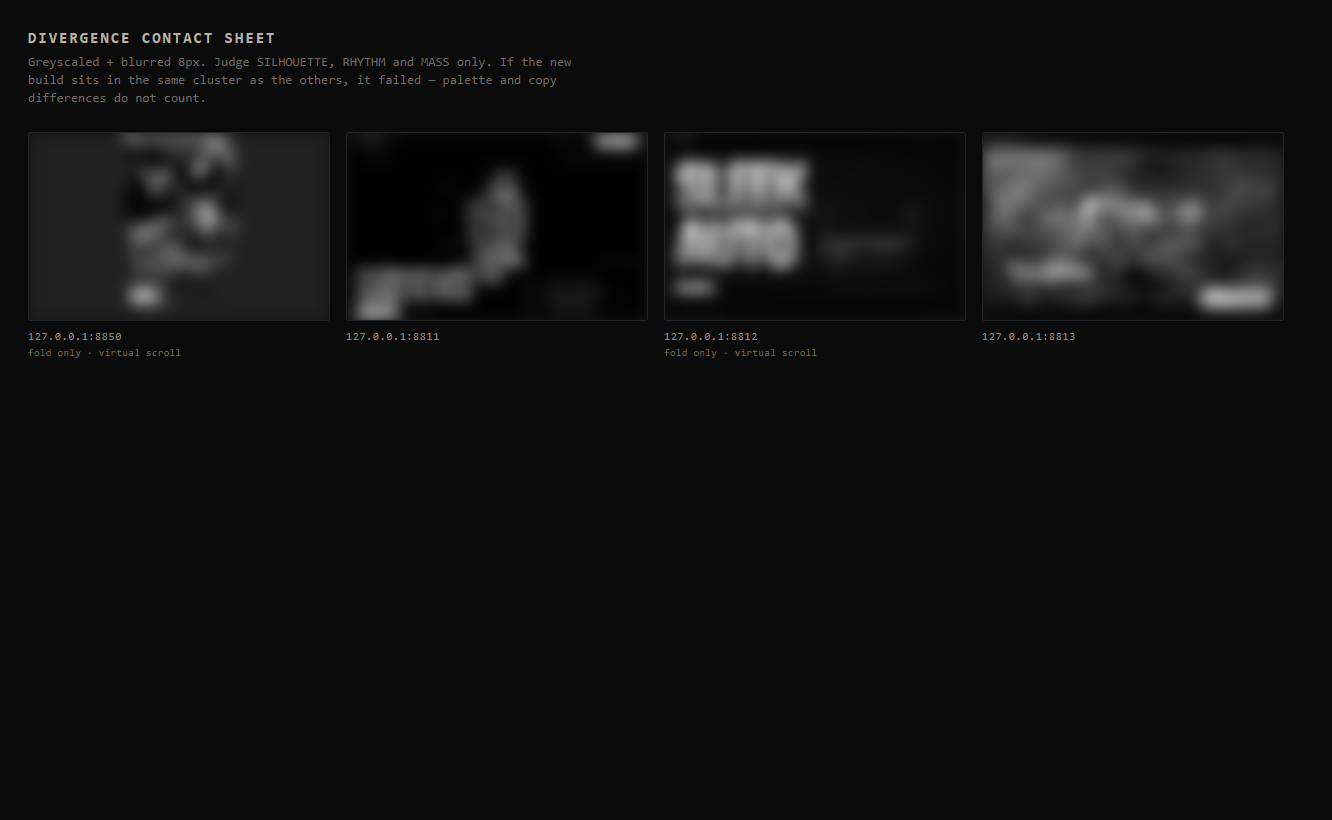
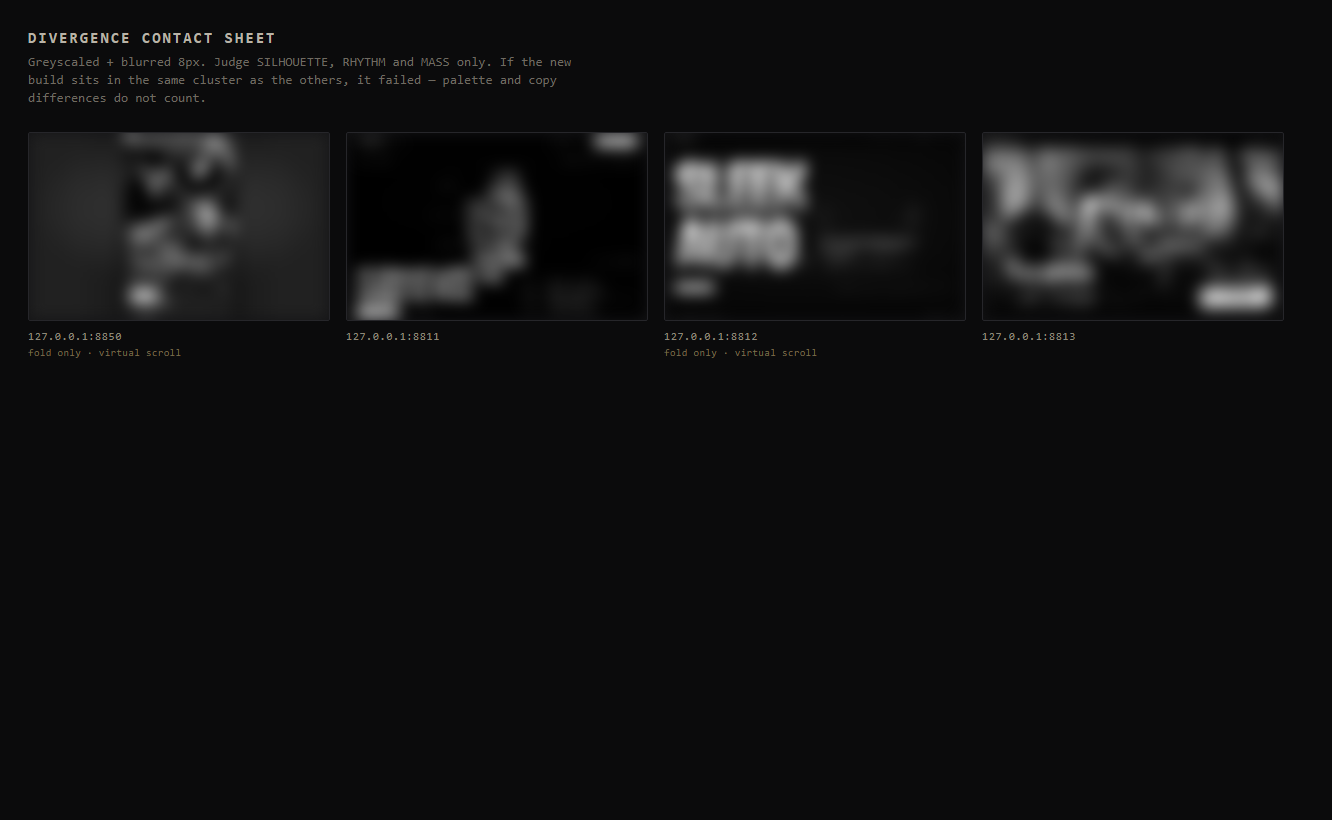
feat: v6 — revised against the award barber set (proof beat, faces on reviews, the feed, location, desktop)
- proof beat after the first crossing: 4.9 · 54 · 17 in glass cards, counted by the scroll (no pin), with a mono facts line (NW Houston · 77064 · EN/ES · appointments only)
- reviews: reviewer initial in a glass disc, 'Booksy' on every attribution
- 'From the feed': native snap strip of six real Instagram grid photos linking to @choppedbydiego (price-list and text posts excluded)
- desktop >= 900px: the phone column sits hairlined in a radial darkroom glow, Book pill centred under it
- capture states extended (proof, feed)

Claude-Session: https://claude.ai/code/session_017YWDE5JXoPXS3XVLwA3b7K

Changed region(s): [[0.7387, 0.1829, 0.985, 0.3659], [0.8003, 0.2134, 0.8311, 0.2439]]

diff --git a/index.html b/index.html
@@ -156,7 +156,7 @@ section{padding:var(--beat) 22px 0}
 .card{margin-top:24px;padding:4px 20px;will-change:transform}
 .card + .card{margin-top:16px}
 .quotes{font-family:var(--disp);font-style:italic;font-weight:400;font-variation-settings:"opsz" 48;font-size:25px;line-height:1.24;text-wrap:balance}
-.q{display:block;padding:20px 0;transition:filter .35s ease,opacity .35s ease;filter:blur(1.2px);opacity:.62}
+.q{display:block;padding:20px 0;transition:filter .35s ease,opacity .35s ease;filter:blur(.8px);opacity:.8}
 .q+.q{border-top:1px solid rgba(239,230,216,.12)}
 .q.on{filter:blur(0);opacity:1}
 .q .who{display:block;margin-top:8px;font-family:var(--mono);font-style:normal;font-size:11px;letter-spacing:.12em;text-transform:uppercase;color:var(--smoke)}
@@ -192,7 +192,9 @@ section{padding:var(--beat) 22px 0}
 .rw .more p{padding:0 20px 16px;font-weight:300;font-size:15px;line-height:1.5;color:var(--cream);opacity:.85;max-width:32ch}
 .rw .more a{display:inline-flex;align-items:center;gap:8px;margin:0 20px 18px;min-height:44px;font-weight:500;font-size:15px;letter-spacing:-.01em;color:var(--signal);text-decoration:none}
 .rw .more a:after{content:'';width:7px;height:7px;border-top:1.5px solid var(--signal);border-right:1.5px solid var(--signal);transform:rotate(45deg);margin-left:2px}
-.hours{margin-top:30px;padding-top:18px;border-top:1px solid var(--hair);line-height:1.9}
+.place{margin-top:16px;display:grid;grid-template-columns:1fr 1fr;gap:18px;padding:20px}
+.place .k{display:block;margin-bottom:8px}
+.place p{font-weight:300;font-size:15px;line-height:1.5;color:var(--cream)}
 
 /* ============ 6 · book ============ */
 .book{position:relative;padding-bottom:40px}
@@ -204,6 +206,43 @@ section{padding:var(--beat) 22px 0}
 .book .note{margin-top:18px;line-height:1.9}
 footer{padding:26px 22px 34px;border-top:1px solid var(--hair);display:flex;justify-content:space-between;gap:14px;flex-wrap:wrap}
 
+/* ============ proof — the numbers, at display scale, counted by the scroll (CRISP's scale-as-proof, Blind Barber's scrub, no pin) ============ */
+.proof{padding-top:calc(var(--beat) * .3)}
+.proof{padding-bottom:calc(var(--beat) * .35)}
+.proof .row3{display:grid;grid-template-columns:1fr 1fr 1fr;margin-top:8px;padding:22px 6px 20px}
+.proof .stat{display:grid;grid-template-rows:auto auto;row-gap:14px;padding:0 14px;align-content:start}
+.proof .stat+.stat{box-shadow:inset 1px 0 0 rgba(239,230,216,.12)}
+.proof .stat .n{font-family:var(--disp);font-variation-settings:"opsz" 96;font-size:clamp(44px,13vw,58px);line-height:.9;letter-spacing:-.02em;font-variant-numeric:tabular-nums}
+.proof .stat .l{font-size:10px;line-height:1.55;color:#C9BBA8;min-height:2.9em}
+.proof .facts{margin-top:18px;line-height:2;display:flex;flex-wrap:wrap;column-gap:4px}
+.proof .facts span{white-space:nowrap}
+.proof .facts i{margin:0 6px}
+/* ============ the feed — a native snap strip of the actual Instagram grid (Una's IG, Rendezvous' lookbook; one thumb, no library) ============ */
+.feed{padding-top:calc(var(--beat) * .7)}
+.feed .head{display:flex;justify-content:space-between;align-items:flex-end;gap:12px}
+.feed .head a{display:inline-flex;align-items:center;gap:8px;height:36px;padding:0 14px;font-size:12px;font-weight:500;color:var(--cream);text-decoration:none;white-space:nowrap;margin-bottom:6px}
+.strip{display:flex;gap:10px;margin:22px -22px 0;padding:0 22px 8px;overflow-x:auto;scroll-snap-type:x mandatory;-webkit-overflow-scrolling:touch;scrollbar-width:none}
+.strip::-webkit-scrollbar{display:none}
+.strip a{flex:0 0 62%;aspect-ratio:4/5;scroll-snap-align:start;border-radius:var(--r-print);overflow:hidden;background:var(--carbon);position:relative;will-change:transform}
+.strip a img{width:100%;height:100%;object-fit:cover}
+.strip a:after{content:'';position:absolute;inset:0;border-radius:inherit;box-shadow:inset 0 0 0 1px rgba(239,230,216,.08)}
+.strip{-webkit-mask-image:linear-gradient(90deg,#000 86%,transparent);mask-image:linear-gradient(90deg,#000 86%,transparent)}
+.strip a .ig{position:absolute;left:12px;bottom:12px;width:32px;height:32px;display:grid;place-items:center;border-radius:50%}
+.strip a .ig svg{width:16px;height:16px;fill:none;stroke:var(--cream);stroke-width:1.6;stroke-linecap:round}
+/* reviews get a face: the initial in a glass disc */
+.q{display:grid;grid-template-columns:40px 1fr;column-gap:14px;align-items:start}
+.q .av,.read .av{width:44px;height:44px;border-radius:50%;display:grid;place-items:center;font-family:var(--sans);font-size:15px;font-weight:600;color:#EDE3D4;background:rgba(214,178,116,.14);border:1px solid rgba(214,178,116,.45);margin-top:2px}
+.q{grid-template-columns:44px 1fr}
+.read{display:grid;grid-template-columns:44px 1fr;column-gap:14px}
+.read .who{grid-column:2}
+.q .who{grid-column:2}
+/* desktop is deliberate: the phone composition sits in a darkroom — the hero, blurred and dimmed, behind a hairlined column */
+@media (min-width:900px){
+  body{background:var(--canvas)}
+  #scroll{background:radial-gradient(70% 60% at 50% 40%,rgba(58,46,36,.35),rgba(16,11,8,0) 70%)}
+  #root{box-shadow:0 0 0 1px rgba(239,230,216,.08),0 40px 120px rgba(0,0,0,.6);background:var(--canvas)}
+  .fab{right:calc(50% - 260px + 16px)}
+}
 @media (prefers-reduced-motion:reduce){
   #pre{display:none} .q{filter:none;opacity:1} .read span{color:var(--cream)} .cross{display:none} .sh{display:none} .mastwrap{transition:none} .fab{transition:none}
 }
@@ -241,6 +280,16 @@ footer{padding:26px 22px 34px;border-top:1px solid var(--hair);display:flex;just
 </section>
 
 <div class="cross" data-tool="shear" data-dir="ltr" aria-hidden="true"></div>
+
+<!-- 1b · proof — the numbers a reel viewer wants before the story -->
+<section class="proof" id="proof">
+  <div class="row3 g-card">
+    <div class="stat"><span class="n" data-count="4.9" data-dec="1">0.0</span><span class="l mono" data-en="Booksy<br>rating" data-es="Calificación<br>Booksy">Booksy<br>rating</span></div>
+    <div class="stat"><span class="n" data-count="54">0</span><span class="l mono" data-en="Booksy<br>reviews" data-es="Reseñas<br>Booksy">Booksy<br>reviews</span></div>
+    <div class="stat"><span class="n" data-count="17">0</span><span class="l mono" data-en="Years old<br>licensed" data-es="Años<br>con licencia">Years old<br>licensed</span></div>
+  </div>
+  <p class="facts mono"><span data-en="Northwest Houston · 77064" data-es="Noroeste de Houston · 77064">Northwest Houston · 77064</span><i>·</i><span data-en="EN / ES" data-es="ES / EN">EN / ES</span><i>·</i><span data-en="Appointments only" data-es="Solo con cita">Appointments only</span></p>
+</section>
 
 <!-- 2 · the barber -->
 <section class="bio" id="bio">
@@ -285,11 +334,24 @@ footer{padding:26px 22px 34px;border-top:1px solid var(--hair);display:flex;just
   <div class="score"><span class="n d">4.9</span><a class="src g-pill" href="https://choppedbydiego33.booksy.com" target="_blank" rel="noopener"><span data-en="54 reviews" data-es="54 reseñas">54 reviews</span><i>·</i><span>Booksy</span></a></div>
   <h2 class="d rv" data-en="What people <em>say.</em>" data-es="Lo que <em>dicen.</em>">What people <em>say.</em></h2>
   <div class="card g-card" id="quotes"><div class="quotes">
-    <span class="q">“The LeBron of cutting hair.”<span class="who"><i>—</i> Jaspur</span></span>
-    <span class="q">“Best cuts in the Nawfwest.”<span class="who"><i>—</i> Andrew</span></span>
-    <span class="q">“Bro, made me look younger.”<span class="who"><i>—</i> Cesar</span></span>
+    <span class="q"><span class="av g-pill">J</span><span>“The LeBron of cutting hair.”</span><span class="who"><i>—</i> Jaspur <i>·</i> Booksy</span></span>
+    <span class="q"><span class="av g-pill">A</span><span>“Best cuts in the Nawfwest.”</span><span class="who"><i>—</i> Andrew <i>·</i> Booksy</span></span>
+    <span class="q"><span class="av g-pill">C</span><span>“Bro, made me look younger.”</span><span class="who"><i>—</i> Cesar <i>·</i> Booksy</span></span>
   </div></div>
-  <div class="card g-card"><p class="read" id="read">I booked my appointment for 6:00pm and got a 10 guard, mid fade. Diego did a really good job and he takes his time.<span class="who mono"><i>—</i> German</span></p></div>
+  <div class="card g-card"><p class="read"><span class="av">G</span><span id="read">I booked my appointment for 6:00pm and got a 10 guard, mid fade. Diego did a really good job and he takes his time.</span><span class="who mono"><i>—</i> German <i>·</i> Booksy</span></p></div>
+</section>
+
+<!-- 4b · the feed -->
+<section class="feed" id="feed">
+  <div class="head"><h2 class="d rv" data-en="From <em>the feed.</em>" data-es="Del <em>feed.</em>">From <em>the feed.</em></h2><a class="g-pill" href="https://www.instagram.com/choppedbydiego/" target="_blank" rel="noopener">@choppedbydiego</a></div>
+  <div class="strip" id="strip">
+    <a href="https://www.instagram.com/choppedbydiego/" target="_blank" rel="noopener"><img src="assets/ig-1.jpg" width="480" height="600" alt="From Diego's Instagram" loading="lazy" decoding="async"><span class="ig g-pill"><svg viewBox="0 0 24 24"><rect x="3" y="3" width="18" height="18" rx="5"/><circle cx="12" cy="12" r="4"/><circle cx="17.3" cy="6.7" r=".8" fill="#EFE6D8" stroke="none"/></svg></span></a>
+    <a href="https://www.instagram.com/choppedbydiego/" target="_blank" rel="noopener"><img src="assets/ig-2.jpg" width="480" height="600" alt="From Diego's Instagram" loading="lazy" decoding="async"><span class="ig g-pill"><svg viewBox="0 0 24 24"><rect x="3" y="3" width="18" height="18" rx="5"/><circle cx="12" cy="12" r="4"/><circle cx="17.3" cy="6.7" r=".8" fill="#EFE6D8" stroke="none"/></svg></span></a>
+    <a href="https://www.instagram.com/choppedbydiego/" target="_blank" rel="noopener"><img src="assets/ig-3.jpg" width="480" height="600" alt="From Diego's Instagram" loading="lazy" decoding="async"><span class="ig g-pill"><svg viewBox="0 0 24 24"><rect x="3" y="3" width="18" height="18" rx="5"/><circle cx="12" cy="12" r="4"/><circle cx="17.3" cy="6.7" r=".8" fill="#EFE6D8" stroke="none"/></svg></span></a>
+    <a href="https://www.instagram.com/choppedbydiego/" target="_blank" rel="noopener"><img src="assets/ig-4.jpg" width="480" height="600" alt="From Diego's Instagram" loading="lazy" decoding="async"><span class="ig g-pill"><svg viewBox="0 0 24 24"><rect x="3" y="3" width="18" height="18" rx="5"/><circle cx="12" cy="12" r="4"/><circle cx="17.3" cy="6.7" r=".8" fill="#EFE6D8" stroke="none"/></svg></span></a>
+    <a href="https://www.instagram.com/choppedbydiego/" target="_blank" rel="noopener"><img src="assets/ig-5.jpg" width="480" height="600" alt="From Diego's Instagram" loading="lazy" decoding="async"><span class="ig g-pill"><svg viewBox="0 0 24 24"><rect x="3" y="3" width="18" height="18" rx="5"/><circle cx="12" cy="12" r="4"/><circle cx="17.3" cy="6.7" r=".8" fill="#EFE6D8" stroke="none"/></svg></span></a>
+    <a href="https://www.instagram.com/choppedbydiego/" target="_blank" rel="noopener"><img src="assets/ig-6.jpg" width="480" height="600" alt="From Diego's Instagram" loading="lazy" decoding="async"><span class="ig g-pill"><svg viewBox="0 0 24 24"><rect x="3" y="3" width="18" height="18" rx="5"/><circle cx="12" cy="12" r="4"/><circle cx="17.3" cy="6.7" r=".8" fill="#EFE6D8" stroke="none"/></svg></span></a>
+  </div>
 </section>
 
 <!-- 5 · the rate card -->
@@ -304,7 +366,10 @@ footer{padding:26px 22px 34px;border-top:1px solid var(--hair);display:flex;just
   <div class="rw"><button type="button" aria-expanded="false"><span class="svc"><span data-en="Kids, 8 &amp; under" data-es="Niños, 8 o menos">Kids, 8 &amp; under</span><small>45 min</small></span><span class="p"><span class="dd"><b>$25</b></span></span><span class="pl"></span></button><div class="more"><div><p data-en="Same care, smaller chair." data-es="El mismo cuidado, silla más chica.">Same care, smaller chair.</p><a href="https://choppedbydiego33.booksy.com" target="_blank" rel="noopener" data-en="Book this on Booksy" data-es="Reservar en Booksy">Book this on Booksy</a></div></div></div>
   <div class="rw"><button type="button" aria-expanded="false"><span class="svc"><span data-en="House call" data-es="A domicilio">House call</span><small>2 hrs · NW Houston</small></span><span class="p"><span class="dd"><b>$60</b></span></span><span class="pl"></span></button><div class="more"><div><p data-en="Diego comes to you, Northwest Houston." data-es="Diego va a ti, noroeste de Houston.">Diego comes to you, Northwest Houston.</p><a href="https://choppedbydiego33.booksy.com" target="_blank" rel="noopener" data-en="Book this on Booksy" data-es="Reservar en Booksy">Book this on Booksy</a></div></div></div>
   </div>
-  <p class="hours mono"><span data-en="Mon–Fri 4–9 pm · Sat 10–6" data-es="Lun–Vie 4–9 pm · Sáb 10–6">Mon–Fri 4–9 pm · Sat 10–6</span><br><span data-en="Sun closed" data-es="Dom cerrado">Sun closed</span></p>
+  <div class="place g-card">
+    <div><span class="k mono" data-en="Where" data-es="Dónde">Where</span><p data-en="Northwest Houston, 77064. Appointments only — the address comes with your booking." data-es="Noroeste de Houston, 77064. Solo con cita — la dirección llega con tu reserva.">Northwest Houston, 77064. Appointments only — the address comes with your booking.</p></div>
+    <div><span class="k mono" data-en="When" data-es="Cuándo">When</span><p><span data-en="Mon–Fri 4–9 pm" data-es="Lun–Vie 4–9 pm">Mon–Fri 4–9 pm</span><br><span data-en="Sat 10–6 · Sun closed" data-es="Sáb 10–6 · Dom cerrado">Sat 10–6 · Sun closed</span></p></div>
+  </div>
 </section>
 
 <!-- 6 · book -->
@@ -420,7 +485,7 @@ footer{padding:26px 22px 34px;border-top:1px solid var(--hair);display:flex;just
        headline / card crosses the bottom 132px — decided from live rects on every scroll tick, never from counters */
     const fab = document.getElementById('fab'), hero = document.querySelector('.hero')
     const avoidBeats = [document.querySelector('.rate'), document.querySelector('.book')]
-    const avoidEdges = Array.from(document.querySelectorAll('h2.d, .book .tagline, .card'))
+    const avoidEdges = Array.from(document.querySelectorAll('h2.d, .book .tagline, .card, .proof .row3, .body, .place'))
     const fabSync = () => {
       const H = scroller.clientHeight, zone = H - 132
       const past = hero.getBoundingClientRect().bottom < H * .7
@@ -440,6 +505,12 @@ footer{padding:26px 22px 34px;border-top:1px solid var(--hair);display:flex;just
         .fromTo(x.rect, { attr: { x: x.rtl ? 400 : 0, width: 0 } }, { attr: { x: 0, width: 400 }, ease: 'none' }, 0)
     })
 
+    /* ---- proof: the numbers count with the scroll (scrub, no pin) — 0 to the real figure as the card climbs the screen ---- */
+    document.querySelectorAll('.proof .n').forEach(n => { const target = +n.dataset.count, dec = +(n.dataset.dec || 0)
+      const fmt = v => v.toFixed(dec)
+      if (reduce) { n.textContent = fmt(target); return }
+      ScrollTrigger.create({ trigger: n, start: 'top 95%', end: 'top 45%', scrub: .4, onUpdate: st => { n.textContent = fmt(target * gsap.parseEase('power2.out')(st.progress)) } }) })
+    if (!reduce) gsap.utils.toArray('.strip a').forEach((a, i) => gsap.from(a, { y: 24, duration: .7, ease: 'expo.out', delay: i * .06, clearProps: 'transform', scrollTrigger: { trigger: '#strip', start: 'top 90%', once: true } }))
     /* ---- the barber: shutter print; lead/inset counter-drift; tap the inset to trade places ---- */
     if (!reduce) {
       gsap.timeline({ scrollTrigger: { trigger: '#shutter', start: 'top 88%', end: 'top 28%', scrub: .5 } })
@@ -506,9 +577,9 @@ footer{padding:26px 22px 34px;border-top:1px solid var(--hair);display:flex;just
 
     /* ---- the chair: the quote in the eye band is sharp; the long review lights word by word, done before the eye band ---- */
     gsap.utils.toArray('.q').forEach(q => ScrollTrigger.create({ trigger: q, start: 'top 65%', end: 'bottom 35%', onToggle: s => q.classList.toggle('on', s.isActive) }))
-    const read = document.getElementById('read'), who = read.querySelector('.who')
+    const read = document.getElementById('read'), who = null
     const words = read.firstChild.textContent.trim().split(' '); read.firstChild.remove()
-    const spans = words.map(w => { const s = document.createElement('span'); s.textContent = w + ' '; read.insertBefore(s, who); return s })
+    const spans = words.map(w => { const s = document.createElement('span'); s.textContent = w + ' '; read.appendChild(s); return s })
     ScrollTrigger.create({ trigger: read, start: 'top 80%', end: 'bottom 35%', scrub: .4, onUpdate: st => { const n = Math.round(st.progress * spans.length); spans.forEach((s, i) => s.classList.toggle('lit', i < n)) } })
 
     /* ---- the rate card ---- */
